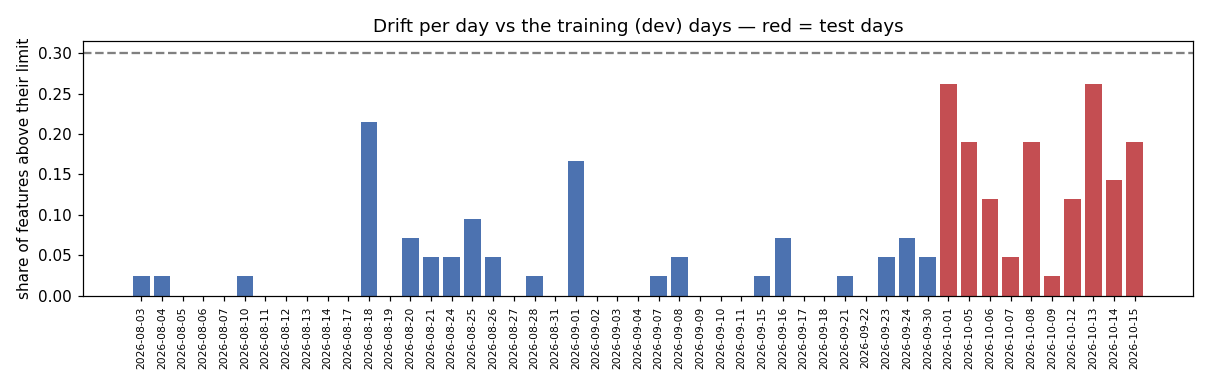
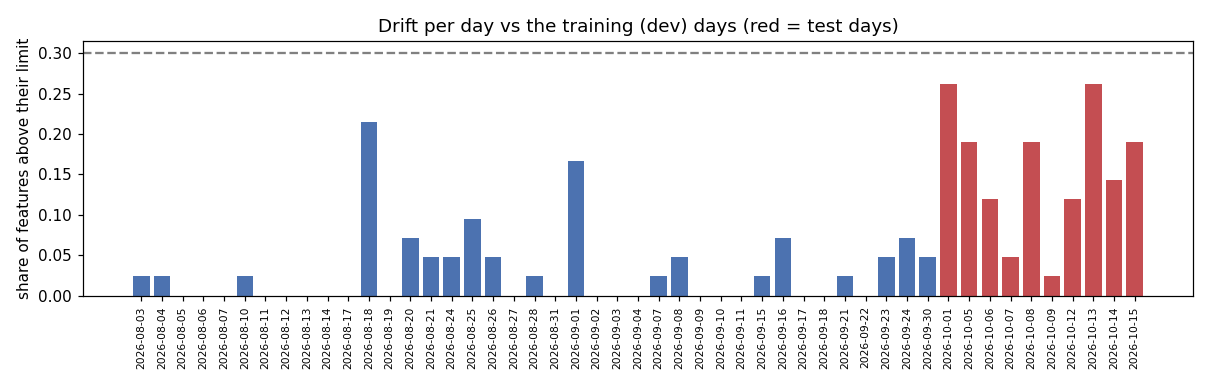
docs: antislop pass over documents and page; add the design direction of the web page
- docs/DESIGN.md: design read, dials (ENERGY 1 / RHYTHM 2 / MOTION 1) and one reason for each visual choice
- no en dash or em dash left in the documents; ranges read "2 to 3"
- HLD best practices: a table in place of bold-header bullets
- page: two unused icons of the removed Forecast page deleted
- drift chart regenerated with the new title

CI (dvc repro gate): 105 passed, 5 e2e skipped; gate 4/4. make e2e 5/5. make ui 13/13.

Changed region(s): [[0.3058, 0.0312, 0.7645, 0.0935]]

diff --git a/frontend/index.html b/frontend/index.html
@@ -277,8 +277,6 @@ h3.sub { font-size: 16px; margin: 16px 0 6px; }
   <symbol id="i-alert" viewBox="0 0 24 24"><path d="M12 3l10 18H2z"/><path d="M12 10v5M12 18h.01"/></symbol>
   <symbol id="i-x" viewBox="0 0 24 24"><circle cx="12" cy="12" r="9"/><path d="M9 9l6 6M15 9l-6 6"/></symbol>
   <symbol id="i-info" viewBox="0 0 24 24"><circle cx="12" cy="12" r="9"/><path d="M12 11v5M12 8h.01"/></symbol>
-  <symbol id="i-play" viewBox="0 0 24 24"><path d="M7 5l12 7-12 7z"/></symbol>
-  <symbol id="i-pause" viewBox="0 0 24 24"><path d="M8 5v14M16 5v14"/></symbol>
   <symbol id="i-logo" viewBox="0 0 28 28"><rect x="1" y="1" width="26" height="26" rx="6" fill="none" stroke="currentColor" stroke-width="2"/><path d="M5 19l5-6 4 3 5-8 4 5" fill="none" stroke="currentColor" stroke-width="2.4" stroke-linecap="round" stroke-linejoin="round"/></symbol>
 </svg>
 <a class="skip" href="#main">Skip to content</a>

diff --git a/reports/test_report.md b/reports/test_report.md
@@ -1,6 +1,6 @@
 # Test report
 
-Generated by `scripts/test_report.py` on 2026-11-12 07:46 IST. Git commit `54ae9a105a`.
+Generated by `scripts/test_report.py` on 2026-11-14 17:24 IST. Git commit `60b5bcd62d`.
 
 | Total | Passed | Failed | Errors | Skipped |
 |---|---|---|---|---|
@@ -10,75 +10,75 @@ Generated by `scripts/test_report.py` on 2026-11-12 07:46 IST. Git commit `54ae9
 
 | Module | Test case | Result | Seconds |
 |---|---|---|---|
-| api.test_explore | test_calendar_marks_unseen_days_and_events | PASSED | 0.66 |
-| api.test_explore | test_iv_day_has_minutes_and_no_forecast_without_a_volatility_model | PASSED | 249.93 |
-| api.test_explore | test_iv_day_and_daily_show_the_forecast_of_the_model_in_service | PASSED | 1.04 |
-| api.test_explore | test_smile_and_term_structure | PASSED | 0.33 |
-| api.test_explore | test_chain_snapshot_merges_expiries_sent_in_separate_seconds | PASSED | 1.16 |
-| api.test_explore | test_unknown_day_and_missing_files | PASSED | 0.38 |
-| api.test_lld | test_lld_lists_every_route_and_nothing_else | PASSED | 0.03 |
-| api.test_lld | test_web_page_calls_only_documented_paths | PASSED | 0.01 |
-| api.test_signal_api | test_signal_returns_action_and_outcome_without_future_rows | PASSED | 0.43 |
-| api.test_signal_api | test_unknown_day_and_model_down | PASSED | 0.18 |
-| api.test_signal_api | test_rollback_needs_token_and_swaps | PASSED | 0.12 |
-| api.test_signal_api | test_pipeline_run_needs_token_writes_one_request | PASSED | 0.21 |
-| api.test_signal_api | test_drift_alert_requests_one_retrain_then_cooldown | PASSED | 0.29 |
-| api.test_signal_api | test_online_drift_and_gauges | PASSED | 0.37 |
-| api.test_signal_api | test_data_quality_gauges | PASSED | 0.46 |
-| api.test_signal_api | test_runner_heartbeat_gauge_and_failed_requests_are_logged | PASSED | 0.41 |
-| api.test_signal_api | test_buy_without_tradable_entry_is_blocked | PASSED | 0.46 |
-| api.test_signal_api | test_losing_trade_lowers_the_running_net | PASSED | 1.91 |
-| api.test_signal_api | test_missing_day_file_is_503_not_500 | PASSED | 0.10 |
-| api.test_signal_api | test_signal_shows_hindsight_for_both_sides | PASSED | 0.06 |
-| api.test_signal_api | test_pipeline_graph_runs_and_logs | PASSED | 0.18 |
-| api.test_signal_api | test_results_with_infinite_tau_is_valid_json | PASSED | 0.07 |
-| api.test_signal_api | test_vol_forecast_uses_only_rows_up_to_sod | PASSED | 0.73 |
-| api.test_signal_api | test_signal_passes_the_drivers_through | PASSED | 0.21 |
-| api.test_signal_api | test_pipeline_throughput_from_reports_and_the_last_ok_run | PASSED | 0.07 |
-| api.test_signal_api | test_vol_results_keeps_per_day_scores_of_champion_and_option_market_only | PASSED | 0.03 |
+| api.test_explore | test_calendar_marks_unseen_days_and_events | PASSED | 1.26 |
+| api.test_explore | test_iv_day_has_minutes_and_no_forecast_without_a_volatility_model | PASSED | 247.09 |
+| api.test_explore | test_iv_day_and_daily_show_the_forecast_of_the_model_in_service | PASSED | 0.94 |
+| api.test_explore | test_smile_and_term_structure | PASSED | 0.95 |
+| api.test_explore | test_chain_snapshot_merges_expiries_sent_in_separate_seconds | PASSED | 0.54 |
+| api.test_explore | test_unknown_day_and_missing_files | PASSED | 0.50 |
+| api.test_lld | test_lld_lists_every_route_and_nothing_else | PASSED | 0.02 |
+| api.test_lld | test_web_page_calls_only_documented_paths | PASSED | 0.00 |
+| api.test_signal_api | test_signal_returns_action_and_outcome_without_future_rows | PASSED | 0.18 |
+| api.test_signal_api | test_unknown_day_and_model_down | PASSED | 0.12 |
+| api.test_signal_api | test_rollback_needs_token_and_swaps | PASSED | 0.11 |
+| api.test_signal_api | test_pipeline_run_needs_token_writes_one_request | PASSED | 0.24 |
+| api.test_signal_api | test_drift_alert_requests_one_retrain_then_cooldown | PASSED | 0.13 |
+| api.test_signal_api | test_online_drift_and_gauges | PASSED | 0.71 |
+| api.test_signal_api | test_data_quality_gauges | PASSED | 0.11 |
+| api.test_signal_api | test_runner_heartbeat_gauge_and_failed_requests_are_logged | PASSED | 0.10 |
+| api.test_signal_api | test_buy_without_tradable_entry_is_blocked | PASSED | 0.10 |
+| api.test_signal_api | test_losing_trade_lowers_the_running_net | PASSED | 0.15 |
+| api.test_signal_api | test_missing_day_file_is_503_not_500 | PASSED | 0.05 |
+| api.test_signal_api | test_signal_shows_hindsight_for_both_sides | PASSED | 0.12 |
+| api.test_signal_api | test_pipeline_graph_runs_and_logs | PASSED | 0.26 |
+| api.test_signal_api | test_results_with_infinite_tau_is_valid_json | PASSED | 0.06 |
+| api.test_signal_api | test_vol_forecast_uses_only_rows_up_to_sod | PASSED | 0.29 |
+| api.test_signal_api | test_signal_passes_the_drivers_through | PASSED | 0.25 |
+| api.test_signal_api | test_pipeline_throughput_from_reports_and_the_last_ok_run | PASSED | 0.08 |
+| api.test_signal_api | test_vol_results_keeps_per_day_scores_of_champion_and_option_market_only | PASSED | 0.06 |
 | e2e.test_stack | test_model_is_served_and_deployed_through_the_gate | SKIPPED | 0.00 |
 | e2e.test_stack | test_a_test_day_signal_round_trip | SKIPPED | 0.00 |
 | e2e.test_stack | test_reports_pipeline_and_metrics | SKIPPED | 0.00 |
 | e2e.test_stack | test_web_page_and_its_config | SKIPPED | 0.00 |
-| e2e.test_stack | test_prometheus_scrapes_the_api | SKIPPED | 0.00 |
-| integration.test_data_pipeline | test_check_rejects_holiday_and_counts_duplicates | PASSED | 160.91 |
-| integration.test_data_pipeline | test_clean_keeps_only_session_rows | PASSED | 0.46 |
-| integration.test_data_pipeline | test_grid_one_row_per_second_with_legs | PASSED | 0.12 |
-| integration.test_data_pipeline | test_feat_rows_columns_and_floats | PASSED | 0.26 |
-| integration.test_data_pipeline | test_labels_are_aligned_and_consistent | PASSED | 0.14 |
-| unit.test_barrier | test_statutory_cost_matches_contract_note | PASSED | 0.02 |
-| unit.test_barrier | test_take_profit_stop_loss_and_time_cap | PASSED | 0.06 |
-| unit.test_barrier | test_follows_the_bought_contract_when_atm_moves | PASSED | 0.03 |
+| e2e.test_stack | test_prometheus_scrapes_the_api | SKIPPED | 0.01 |
+| integration.test_data_pipeline | test_check_rejects_holiday_and_counts_duplicates | PASSED | 139.99 |
+| integration.test_data_pipeline | test_clean_keeps_only_session_rows | PASSED | 0.25 |
+| integration.test_data_pipeline | test_grid_one_row_per_second_with_legs | PASSED | 0.05 |
+| integration.test_data_pipeline | test_feat_rows_columns_and_floats | PASSED | 0.04 |
+| integration.test_data_pipeline | test_labels_are_aligned_and_consistent | PASSED | 0.03 |
+| unit.test_barrier | test_statutory_cost_matches_contract_note | PASSED | 0.00 |
+| unit.test_barrier | test_take_profit_stop_loss_and_time_cap | PASSED | 0.01 |
+| unit.test_barrier | test_follows_the_bought_contract_when_atm_moves | PASSED | 0.00 |
 | unit.test_eda_rules | test_opt_tape_rules | PASSED | 0.04 |
-| unit.test_eda_rules | test_index_closing_print_dropped | PASSED | 0.02 |
-| unit.test_eda_rules | test_forward_fill_respects_age_limit | PASSED | 0.02 |
-| unit.test_eda_rules | test_forward_fill_never_uses_future | PASSED | 0.02 |
-| unit.test_explain | test_contributions_add_up_to_the_score_and_name_the_planted_driver | PASSED | 3.08 |
-| unit.test_explain | test_other_families_return_no_drivers | PASSED | 0.31 |
+| unit.test_eda_rules | test_index_closing_print_dropped | PASSED | 0.01 |
+| unit.test_eda_rules | test_forward_fill_respects_age_limit | PASSED | 0.00 |
+| unit.test_eda_rules | test_forward_fill_never_uses_future | PASSED | 0.01 |
+| unit.test_explain | test_contributions_add_up_to_the_score_and_name_the_planted_driver | PASSED | 2.15 |
+| unit.test_explain | test_other_families_return_no_drivers | PASSED | 0.26 |
 | unit.test_explain | test_served_model_explains_only_the_last_row | PASSED | 0.01 |
 | unit.test_export | test_day_counts_parses_tsv | PASSED | 0.00 |
 | unit.test_export | test_export_day_verifies_row_count | PASSED | 0.00 |
 | unit.test_export | test_export_day_rejects_short_file | PASSED | 0.00 |
-| unit.test_export | test_runlog_journals_success_and_failure | PASSED | 0.05 |
-| unit.test_featurelib | test_registry_is_not_empty | PASSED | 0.01 |
+| unit.test_export | test_runlog_journals_success_and_failure | PASSED | 0.03 |
+| unit.test_featurelib | test_registry_is_not_empty | PASSED | 0.00 |
 | unit.test_featurelib | test_feature_has_docstring_and_rows[clock] | PASSED | 0.00 |
 | unit.test_featurelib | test_feature_has_docstring_and_rows[spot_returns] | PASSED | 0.00 |
 | unit.test_featurelib | test_feature_has_docstring_and_rows[spot_volatility] | PASSED | 0.00 |
 | unit.test_featurelib | test_feature_has_docstring_and_rows[spot_range_position] | PASSED | 0.00 |
 | unit.test_featurelib | test_feature_has_docstring_and_rows[future_basis] | PASSED | 0.00 |
 | unit.test_featurelib | test_feature_has_docstring_and_rows[future_volume] | PASSED | 0.00 |
-| unit.test_featurelib | test_feature_has_docstring_and_rows[book_shape] | PASSED | 0.20 |
+| unit.test_featurelib | test_feature_has_docstring_and_rows[book_shape] | PASSED | 0.01 |
 | unit.test_featurelib | test_feature_has_docstring_and_rows[option_flow] | PASSED | 0.01 |
 | unit.test_featurelib | test_feature_has_docstring_and_rows[call_put_pressure] | PASSED | 0.01 |
 | unit.test_featurelib | test_feature_has_docstring_and_rows[vol_surface] | PASSED | 0.00 |
-| unit.test_featurelib | test_feature_has_no_look_ahead[clock] | PASSED | 0.01 |
+| unit.test_featurelib | test_feature_has_no_look_ahead[clock] | PASSED | 0.00 |
 | unit.test_featurelib | test_feature_has_no_look_ahead[spot_returns] | PASSED | 0.01 |
 | unit.test_featurelib | test_feature_has_no_look_ahead[spot_volatility] | PASSED | 0.01 |
 | unit.test_featurelib | test_feature_has_no_look_ahead[spot_range_position] | PASSED | 0.01 |
 | unit.test_featurelib | test_feature_has_no_look_ahead[future_basis] | PASSED | 0.01 |
 | unit.test_featurelib | test_feature_has_no_look_ahead[future_volume] | PASSED | 0.01 |
-| unit.test_featurelib | test_feature_has_no_look_ahead[book_shape] | PASSED | 0.06 |
-| unit.test_featurelib | test_feature_has_no_look_ahead[option_flow] | PASSED | 0.03 |
+| unit.test_featurelib | test_feature_has_no_look_ahead[book_shape] | PASSED | 0.03 |
+| unit.test_featurelib | test_feature_has_no_look_ahead[option_flow] | PASSED | 0.05 |
 | unit.test_featurelib | test_feature_has_no_look_ahead[call_put_pressure] | PASSED | 0.02 |
 | unit.test_featurelib | test_feature_has_no_look_ahead[vol_surface] | PASSED | 0.01 |
 | unit.test_featurelib | test_feature_is_full_after_its_lookback[clock] | PASSED | 0.00 |
@@ -88,35 +88,35 @@ Generated by `scripts/test_report.py` on 2026-11-12 07:46 IST. Git commit `54ae9
 | unit.test_featurelib | test_feature_is_full_after_its_lookback[future_basis] | PASSED | 0.00 |
 | unit.test_featurelib | test_feature_is_full_after_its_lookback[future_volume] | PASSED | 0.00 |
 | unit.test_featurelib | test_feature_is_full_after_its_lookback[book_shape] | PASSED | 0.01 |
-| unit.test_featurelib | test_feature_is_full_after_its_lookback[option_flow] | PASSED | 0.02 |
+| unit.test_featurelib | test_feature_is_full_after_its_lookback[option_flow] | PASSED | 0.01 |
 | unit.test_featurelib | test_feature_is_full_after_its_lookback[call_put_pressure] | PASSED | 0.01 |
 | unit.test_featurelib | test_feature_is_full_after_its_lookback[vol_surface] | PASSED | 0.00 |
-| unit.test_featurelib | test_all_columns_unique | PASSED | 0.03 |
-| unit.test_featurelib | test_every_feature_column_is_float64 | PASSED | 0.02 |
+| unit.test_featurelib | test_all_columns_unique | PASSED | 0.05 |
+| unit.test_featurelib | test_every_feature_column_is_float64 | PASSED | 0.03 |
 | unit.test_gate | test_all_pass | PASSED | 0.00 |
 | unit.test_gate | test_each_broken_criterion_fails | PASSED | 0.00 |
 | unit.test_grid | test_legs_follow_atm_and_never_look_ahead | PASSED | 0.03 |
-| unit.test_page_script | test_inline_script_has_no_syntax_error | PASSED | 0.45 |
-| unit.test_parallel | test_map_days_keeps_order_on_ray | PASSED | 9.02 |
+| unit.test_page_script | test_inline_script_has_no_syntax_error | PASSED | 0.27 |
+| unit.test_parallel | test_map_days_keeps_order_on_ray | PASSED | 5.41 |
 | unit.test_promote | test_failed_smoke_test_is_not_deployed | PASSED | 0.01 |
 | unit.test_promote | test_passed_version_becomes_champion_and_old_one_previous | PASSED | 0.00 |
 | unit.test_promote | test_first_deployment_has_no_previous | PASSED | 0.00 |
-| unit.test_psi | test_same_distribution_has_low_psi_and_shift_has_high_psi | PASSED | 0.00 |
-| unit.test_psi | test_nan_share_change_is_drift | PASSED | 0.00 |
-| unit.test_psi | test_monitor_needs_min_rows_then_flags_drift | PASSED | 0.00 |
+| unit.test_psi | test_same_distribution_has_low_psi_and_shift_has_high_psi | PASSED | 0.01 |
+| unit.test_psi | test_nan_share_change_is_drift | PASSED | 0.01 |
+| unit.test_psi | test_monitor_needs_min_rows_then_flags_drift | PASSED | 0.01 |
 | unit.test_replay | test_replay_counts_answers_and_refusals | PASSED | 0.01 |
-| unit.test_vol | test_inputs_have_no_look_ahead | PASSED | 0.10 |
-| unit.test_vol | test_targets_look_only_forward | PASSED | 0.03 |
-| unit.test_vol | test_qlike_is_zero_for_a_perfect_forecast_and_grows_with_error | PASSED | 0.31 |
-| unit.test_vol | test_every_forecaster_fits_and_predicts_positive[implied] | PASSED | 0.05 |
-| unit.test_vol | test_every_forecaster_fits_and_predicts_positive[har] | PASSED | 0.45 |
-| unit.test_vol | test_every_forecaster_fits_and_predicts_positive[har_iv] | PASSED | 0.25 |
-| unit.test_vol | test_har_beats_noise_iv_on_clustered_volatility | PASSED | 0.32 |
-| unit.test_zoo | test_one_position_at_a_time | PASSED | 0.00 |
-| unit.test_zoo | test_nan_score_never_trades | PASSED | 0.00 |
+| unit.test_vol | test_inputs_have_no_look_ahead | PASSED | 0.06 |
+| unit.test_vol | test_targets_look_only_forward | PASSED | 0.01 |
+| unit.test_vol | test_qlike_is_zero_for_a_perfect_forecast_and_grows_with_error | PASSED | 0.00 |
+| unit.test_vol | test_every_forecaster_fits_and_predicts_positive[implied] | PASSED | 0.01 |
+| unit.test_vol | test_every_forecaster_fits_and_predicts_positive[har] | PASSED | 0.15 |
+| unit.test_vol | test_every_forecaster_fits_and_predicts_positive[har_iv] | PASSED | 0.04 |
+| unit.test_vol | test_har_beats_noise_iv_on_clustered_volatility | PASSED | 0.03 |
+| unit.test_zoo | test_one_position_at_a_time | PASSED | 0.01 |
+| unit.test_zoo | test_nan_score_never_trades | PASSED | 0.01 |
 | unit.test_zoo | test_folds_are_walk_forward | PASSED | 0.00 |
 | unit.test_zoo | test_every_family_fits_and_scores[stay_out] | PASSED | 0.00 |
-| unit.test_zoo | test_every_family_fits_and_scores[linear] | PASSED | 0.01 |
+| unit.test_zoo | test_every_family_fits_and_scores[linear] | PASSED | 0.05 |
 | unit.test_zoo | test_every_family_fits_and_scores[lgbm_reg] | PASSED | 0.02 |
-| unit.test_zoo | test_trees_find_the_planted_signal | PASSED | 0.15 |
+| unit.test_zoo | test_trees_find_the_planted_signal | PASSED | 0.13 |
 | unit.test_zoo | test_choose_tau_with_no_finite_score_never_trades | PASSED | 0.00 |

diff --git a/docs/DESIGN.md b/docs/DESIGN.md
@@ -1,0 +1,27 @@
+# Design direction of the web page
+
+This file states the visual direction of `frontend/index.html` and one reason for each choice.
+The page is checked against it by the browser audit (`make ui`, `reports/ui_audit.md`).
+
+**Design read.** A research dashboard for one reader who is not a programmer (the examiner, or a trader),
+in a plain Swiss-style language. Dial: ENERGY 1 / RHYTHM 2 / MOTION 1.
+
+| Choice | What | Reason |
+|---|---|---|
+| Energy 1 | Calm page, no hero, no decoration | The reader comes to read numbers. Decoration competes with the charts. |
+| Rhythm 2 | Numbered steps of different shape: calendar, chart, three value boxes, answer card, verdict cards | Each step shows a different kind of data, so each has its own form. The numbers keep the order clear. |
+| Motion 1 | Only a loading pulse and a 1 px press on buttons; both stop under "reduce motion" | Motion shows state (loading, pressed). Nothing moves for effect. |
+| Palette | Slate neutrals and one blue (`--primary`) for controls and links | One accent marks what the reader can press. |
+| Meaning colours | Green, red and amber only for good, bad and warning, always with a word or an icon | The verdict must not depend on colour alone. |
+| Chart colours | Three fixed colours and three line styles: our forecast (solid), options market (dashed), what happened (dotted) | The same three series appear in every chart, so the reader learns them once. Line style keeps them apart without colour. |
+| Typeface | The system font; a monospace font only for times, commit IDs and logs | No font is downloaded (the server is private), and the page looks native on each device. Monospace keeps digits aligned. |
+| Radius | 8 to 10 px on cards and controls; a full pill only on status tags | One shape for containers, one for status. |
+| Shadow | None on cards (borders separate the surfaces). One shadow, on the explanation pop-up | The pop-up is the only element that sits above the page, so it is the only one with elevation. |
+| Theme | Light and dark, following the device setting | The reader keeps the setting of the device. Both themes pass the contrast check. |
+| Layout | One column, at most 1100 px wide; tabs move to the bottom on a phone | The story reads top to bottom. On a phone the tabs sit under the thumb. |
+| Focal point | Per step, one large value or one sentence in plain words | The reader gets the answer before the detail. |
+| Identity | The star for an unseen day, and the three line styles | The page is about a fair test, so the mark of an unseen day is on the calendar, the charts and the tables. |
+| Words | Plain English, with a tap-to-explain button on each term | The reader is not a quant. |
+
+**Not on the page, on purpose:** testimonials, usage statistics, marketing claims. Every number comes from a
+report file written by the pipeline.

diff --git a/docs/HLD.md b/docs/HLD.md
@@ -64,15 +64,14 @@ is not part of this submission); for Ravion it is a filter and sizing input.
 
 ## 5. Best practices
 
-- **Code quality:** ruff (PEP 8), docstrings in every module, one requirements file.
-- **Testing:** unit, integration, API and end-to-end tests ([TEST_PLAN.md](TEST_PLAN.md)).
-- **Security:** AES-256 encrypted backup of data and models; admin token for rollback and retraining;
-  services bound to localhost by default; ClickHouse read-only.
-- **Scalability:** the work grows with the number of days; days run in parallel on Ray (CPU limit in
-  `params.yaml`, so live trading keeps its CPUs). New days = `dvc repro`.
-- **Explainability:** global: gain importance and group ablation for the champion (Results tab, MLflow). Per signal:
-  exact SHAP values of the score (`/signal` → `drivers`; Explore step 4, "Why did it say that?"). They add up to the score.
-- **Collaboration:** shared MLflow UI, Grafana, Git history, `docs/steps/` (one short note per lifecycle step).
+| Practice (course guideline IV) | In this project |
+|---|---|
+| Code quality | Ruff (PEP 8), docstrings in every module, one requirements file. |
+| Testing | Unit, integration, API and end-to-end tests ([TEST_PLAN.md](TEST_PLAN.md)). |
+| Security | AES-256 encrypted backup of data and models; admin token for rollback and retraining; services bound to localhost by default; ClickHouse read-only. |
+| Scalability | The work grows with the number of days; days run in parallel on Ray (CPU limit in `params.yaml`, so live trading keeps its CPUs). New days = `dvc repro`. |
+| Explainability | Global: gain importance and group ablation for the champion (Results tab, MLflow). Per signal: exact SHAP values of the score (`/signal` → `drivers`; Explore step 4, "Why did it say that?"). They add up to the score. |
+| Collaboration | Shared MLflow UI, Grafana, Git history, `docs/steps/` (one short note per lifecycle step). |
 
 ## 6. Experiment tracking: what MLflow records
 

diff --git a/docs/LLD.md b/docs/LLD.md
@@ -12,7 +12,7 @@ Out: `{"ok": true}`. 503 when the model server does not answer `/ping`.
 Out: `[{"day": "2026-10-15", "split": "test" | "dev"}]`, every accepted day.
 
 ### GET /signal
-In (query): `day` (an accepted day), `sod` (seconds since IST midnight, 33300–55799).
+In (query): `day` (an accepted day), `sod` (seconds since IST midnight, 33300 to 55799).
 Out: `day, sod, time, atm, action (BUY_CE | BUY_PE | STAY_OUT), score_ce, score_pe, blocked,`
 `outcome {net_rs, hold_s, barrier (1 take-profit, -1 stop-loss, 0 time limit), entry, exit} | null,`
 `hindsight {ce, pe: {net_rs, hold_s, barrier} | null}`.
@@ -92,11 +92,11 @@ dependency of the other (`dvc.yaml`). `last` = the newest run in the journal. `t
 rows_per_s}` of the last successful run (`null` for stages that do not process rows).
 
 ### GET /pipeline/runs
-In (query): `limit` (1–500, default 50), `stage` (optional). Out: runs of current stages, newest first:
+In (query): `limit` (1 to 500, default 50), `stage` (optional). Out: runs of current stages, newest first:
 `{run_id, stage, started, status, duration_s, git_commit, git_dirty, exit_code, summary}`.
 
 ### GET /pipeline/runs/{run_id}/log
-In: `run_id` (`[0-9T]+-[a-z_]+`), `tail` (1–5000 lines). Out: text. 400 bad id, 404 unknown run or no file.
+In: `run_id` (`[0-9T]+-[a-z_]+`), `tail` (1 to 5000 lines). Out: text. 400 bad id, 404 unknown run or no file.
 
 ### GET /quality
 Out: `{accepted: [days], rejected: {day: [reasons]}, cleaning: {table: {rows_in, rows_out, drop_*, null_*}}}`.

diff --git a/AI_DISCLOSURE.md b/AI_DISCLOSURE.md
@@ -16,10 +16,10 @@ and these documents; ran the pipeline and the checks; and reported the results, 
 - Until 2026-10-22: a first version (minute and second-level models) was built with Claude. The author did
   not review its documents. On 2026-10-23 the author marked them deprecated and they were removed
   (still in Git history before commit `817a1b1`).
-- 2026-10-23 – 10-24: the pipeline was rebuilt item by item with the author's review: cleaning, 1-second grid,
+- 2026-10-23 to 10-24: the pipeline was rebuilt item by item with the author's review: cleaning, 1-second grid,
   feature library, triple-barrier labels, direction models, deploy gate, drift, monitoring, web page, documents.
-- 2026-10-24 – 10-26: with Claude: the volatility forecaster, the Explore page, and research studies on branches.
-- 2026-11-08 – 11-11: the author asked Claude to check the project against the official evaluation guideline and
+- 2026-10-24 to 10-26: with Claude: the volatility forecaster, the Explore page, and research studies on branches.
+- 2026-11-08 to 11-11: the author asked Claude to check the project against the official evaluation guideline and
   to finish it. Claude moved CI into the DVC pipeline (stages `tests` and `gate`, as in course lecture 11), fixed a
   page error, added monitoring of every component, removed unused files and brought the documents up to date.
 - 2026-11-11: after a review of the demo, the author decided the project was too large for a course assignment.

diff --git a/docs/RUBRIC.md b/docs/RUBRIC.md
@@ -20,7 +20,7 @@ Development Guidelines". Short notes per lifecycle step are in
 |---|---|
 | UI/UX, user manual | `frontend/` (one page, light + dark, phone width), guided tour, [USER_MANUAL.md](USER_MANUAL.md); browser audit `make ui` 13/13 ([reports/ui_audit.md](../reports/ui_audit.md)) |
 | ML pipeline visualization | "How it's built" tab: live DVC DAG, speed per stage, runs with totals and a "Failed only" filter, run logs, data quality; Controls tab (management console): run the pipeline (`dvc repro gate`), retrain, rollback, links to MLflow (5050) and Grafana (3001) |
-| Design, OO / functional | [HLD.md](HLD.md) §2–3; functional stages + small classes (models, API) |
+| Design, OO / functional | [HLD.md](HLD.md) §2 and §3; functional stages + small classes (models, API) |
 | Loose coupling | page ↔ API only by REST; address in `frontend/config.json` |
 | Coding style, logging, exceptions, comments | ruff (PEP 8) in CI; run journal `logs/runs.jsonl` + `logs/<stage>/`; docstrings per module |
 | Unit tests, test report | 110 cases (105 pass, 5 e2e skip without the stack; e2e 5/5 with it); `make e2e` with the stack |

diff --git a/docs/steps/ui.md b/docs/steps/ui.md
@@ -3,7 +3,7 @@
 **Code.** [frontend/index.html](../../frontend/index.html): one static page (Plotly.js vendored in `frontend/vendor/`). Manual: [USER_MANUAL.md](../USER_MANUAL.md).
 
 - Built around the trader's question (how much will NIFTY move, and does it work?), with plain words and tap-to-explain terms.
-- Designed with the UI/UX Pro Max skill (Swiss minimal style, semantic colours, light + dark).
+- Design direction and the reason for each visual choice: [DESIGN.md](../DESIGN.md) (Swiss minimal style, semantic colours, light + dark).
 - Browser audit `tests/ui/ui_audit.py`: first page 5 of 11 checks failed, this page passes 13 of 13 (`reports/ui_audit.md`).
 - Four tabs: **Explore** (5 steps: day → implied volatility → inside one day → call or put? → verdict), **Results**,
   **How it's built** (live pipeline, speed, runs, logs, data quality) and **Controls** (health, rollback, retrain, run the pipeline).

diff --git a/docs/steps/data_identification.md b/docs/steps/data_identification.md
@@ -12,7 +12,7 @@ Each file's row count is checked against the server.
 |---|---|---|
 | `opt_tape` | one option contract: LTP, volume, OI, 5-level book | ~0.75 s |
 | `und_tape` | NIFTY index or future | ~10 ms (index) |
-| `option_chain_snap` | one strike, CE + PE: bid/ask/IV/delta | ~2–5 s |
+| `option_chain_snap` | one strike, CE + PE: bid/ask/IV/delta | ~2 to 5 s |
 
 Format: one Parquet file per table per day, `ts_ns` = UTC nanoseconds.
 
@@ -26,7 +26,7 @@ data/clean, grid, feat, labels   derived by DVC stages
 
 **Biases.**
 - NIFTY only, near-ATM strikes only (by design).
-- About 2.5 months, one regime (an edge is expected to last 2–3 months).
+- About 2.5 months, one regime (an edge is expected to last 2 to 3 months).
 - Broker feed updates, not exchange ticks.
 - 6 bad days and some placeholder chain values (handled in EDA).
 - Snapshot frozen at 2026-10-16 (for reproducibility).

diff --git a/README.md b/README.md
@@ -22,6 +22,7 @@ library for the author's trading system (Ravion V2).
 | [Low-level design](docs/LLD.md) | every API endpoint and pipeline stage with its input and output |
 | [Test plan](docs/TEST_PLAN.md) | levels, 110 test cases, acceptance criteria; report in `reports/test_report.md` |
 | [User manual](docs/USER_MANUAL.md) | the web page for a non-technical user, with screenshots; operator commands |
+| [Design direction](docs/DESIGN.md) | the visual choices of the web page, with one reason each |
 | [Rubric map](docs/RUBRIC.md) | each evaluation item → where it is; results; what is not done |
 | [CI with DVC](docs/steps/ci.md) | the DVC DAG as the CI pipeline, the acceptance gate |
 | [Lifecycle steps](docs/steps/) | one short note per course step |

diff --git a/docs/steps/cleaning_transformation.md b/docs/steps/cleaning_transformation.md
@@ -6,7 +6,7 @@
 bad volume/OI, chain placeholders. `data/raw` → `data/clean`.
 
 **Transformation.** Stage `grid` ([grid.py](../../src/optpred/transform/grid.py)): `data/clean` → `data/grid/<day>.parquet`.
-- One row per second, 09:15:00–15:29:59: 22,500 rows/day, 1.1 M rows in total, 116 columns.
+- One row per second, 09:15:00 to 15:29:59: 22,500 rows/day, 1.1 M rows in total, 116 columns.
 - Columns: index, future, the front-expiry option legs ATM±2 (CE and PE: bid/ask, size, 5-level depth, LTP, volume,
   OI, age), and the ATM chain IV/delta.
 - Each value = the last tick at or before the end of the second, with the same age limit as the EDA (`fill.asof`).

diff --git a/docs/steps/model_selection.md b/docs/steps/model_selection.md
@@ -3,7 +3,7 @@
 > Choose appropriate ML algorithms based on the problem and data characteristics.
 
 **Data facts that drive the choice.** Tabular features with NaN, mixed scales and fat tails. Weak signal
-(lag-1 autocorrelation of NIFTY returns 0.02). Only 49 independent days. The regime changes every 2–3 months.
+(lag-1 autocorrelation of NIFTY returns 0.02). Only 49 independent days. The regime changes every 2 to 3 months.
 
 **Target: triple-barrier label** (López de Prado). Entry at the ATM ask. Exit at the bid at the first of:
 take-profit (+k₁·σ), stop-loss (−k₂·σ), time cap. σ = the option's recent volatility, so the holding period
